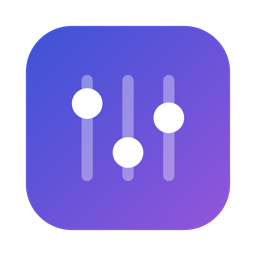
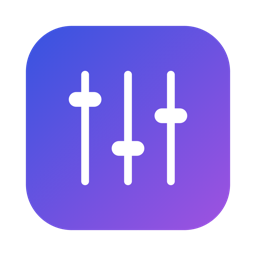
design: иконка в стиле slider.vertical.3 — как символ в menu bar

diff --git a/scripts/render-app-icon.swift b/scripts/render-app-icon.swift
@@ -1,45 +1,50 @@
 import AppKit
 
-let size: CGFloat = 1024
-let img = NSImage(size: NSSize(width: size, height: size))
-img.lockFocus()
+// Иконка приложения: три вертикальных слайдера в стиле SF slider.vertical.3
+let px = 1024
+let W = CGFloat(px), H = CGFloat(px)
+let rep = NSBitmapImageRep(bitmapDataPlanes: nil, pixelsWide: px, pixelsHigh: px,
+    bitsPerSample: 8, samplesPerPixel: 4, hasAlpha: true, isPlanar: false,
+    colorSpaceName: .deviceRGB, bytesPerRow: 0, bitsPerPixel: 0)!
+NSGraphicsContext.saveGraphicsState()
+NSGraphicsContext.current = NSGraphicsContext(bitmapImageRep: rep)
 let ctx = NSGraphicsContext.current!.cgContext
 
-// Сквиркл с полями ~10% (как у нативных иконок macOS)
-let margin = size * 0.1
-let rect = CGRect(x: margin, y: margin, width: size - margin * 2, height: size - margin * 2)
-let path = CGPath(roundedRect: rect, cornerWidth: rect.width * 0.225, cornerHeight: rect.width * 0.225, transform: nil)
-ctx.addPath(path)
+// Сквиркл с полями ~10%
+let margin = W * 0.1
+let r = CGRect(x: margin, y: margin, width: W - margin * 2, height: H - margin * 2)
+let squircle = CGPath(roundedRect: r, cornerWidth: r.width * 0.225, cornerHeight: r.width * 0.225, transform: nil)
+ctx.addPath(squircle)
 ctx.clip()
 
-// Градиент фона: глубокий синий → фиолетовый
+// Градиент: глубокий синий → фиолетовый
 let colors = [NSColor(calibratedRed: 0.16, green: 0.22, blue: 0.85, alpha: 1).cgColor,
               NSColor(calibratedRed: 0.55, green: 0.20, blue: 0.85, alpha: 1).cgColor] as CFArray
 let grad = CGGradient(colorsSpace: CGColorSpaceCreateDeviceRGB(), colors: colors, locations: [0, 1])!
-ctx.drawLinearGradient(grad, start: CGPoint(x: rect.minX, y: rect.maxY), end: CGPoint(x: rect.maxX, y: rect.minY), options: [])
+ctx.drawLinearGradient(grad, start: CGPoint(x: r.minX, y: r.maxY), end: CGPoint(x: r.maxX, y: r.minY), options: [])
 
-// Три вертикальных ползунка
-let trackW = rect.width * 0.055
-let trackH = rect.height * 0.52
-let knobR = rect.width * 0.075
-let xs: [CGFloat] = [0.30, 0.50, 0.70].map { rect.minX + rect.width * $0 }
-let knobYs: [CGFloat] = [0.62, 0.38, 0.55].map { rect.minY + rect.height * $0 }
-let trackY = rect.midY - trackH / 2
+// Три слайдера: тонкая вертикальная линия + горизонтальная плашка-ползунок
+let lineW = r.width * 0.038          // толщина линии
+let lineH = r.height * 0.56          // высота линии
+let knobW = r.width * 0.16           // ширина плашки
+let knobH = lineW * 1.9              // толщина плашки
+let xs: [CGFloat] = [0.29, 0.50, 0.71].map { r.minX + r.width * $0 }
+let knobYs: [CGFloat] = [0.64, 0.40, 0.56].map { r.minY + r.height * $0 }
+let top = r.midY + lineH / 2
+let bottom = r.midY - lineH / 2
 
-ctx.setFillColor(NSColor.white.withAlphaComponent(0.35).cgColor)
-for x in xs {
-    let track = CGRect(x: x - trackW / 2, y: trackY, width: trackW, height: trackH)
-    ctx.addPath(CGPath(roundedRect: track, cornerWidth: trackW / 2, cornerHeight: trackW / 2, transform: nil))
+ctx.setFillColor(NSColor.white.cgColor)
+for (x, ky) in zip(xs, knobYs) {
+    // линия
+    let line = CGRect(x: x - lineW / 2, y: bottom, width: lineW, height: top - bottom)
+    ctx.addPath(CGPath(roundedRect: line, cornerWidth: lineW / 2, cornerHeight: lineW / 2, transform: nil))
+    ctx.fillPath()
+    // плашка-ползунок
+    let knob = CGRect(x: x - knobW / 2, y: ky - knobH / 2, width: knobW, height: knobH)
+    ctx.addPath(CGPath(roundedRect: knob, cornerWidth: knobH / 2, cornerHeight: knobH / 2, transform: nil))
     ctx.fillPath()
 }
-ctx.setFillColor(NSColor.white.cgColor)
-for (x, y) in zip(xs, knobYs) {
-    ctx.fillEllipse(in: CGRect(x: x - knobR, y: y - knobR, width: knobR * 2, height: knobR * 2))
-}
-img.unlockFocus()
 
-let tiff = img.tiffRepresentation!
-let rep = NSBitmapImageRep(data: tiff)!
-let png = rep.representation(using: .png, properties: [:])!
-try! png.write(to: URL(fileURLWithPath: "icon_1024.png"))
+NSGraphicsContext.restoreGraphicsState()
+try! rep.representation(using: .png, properties: [:])!.write(to: URL(fileURLWithPath: "icon2_1024.png"))
 print("ok")